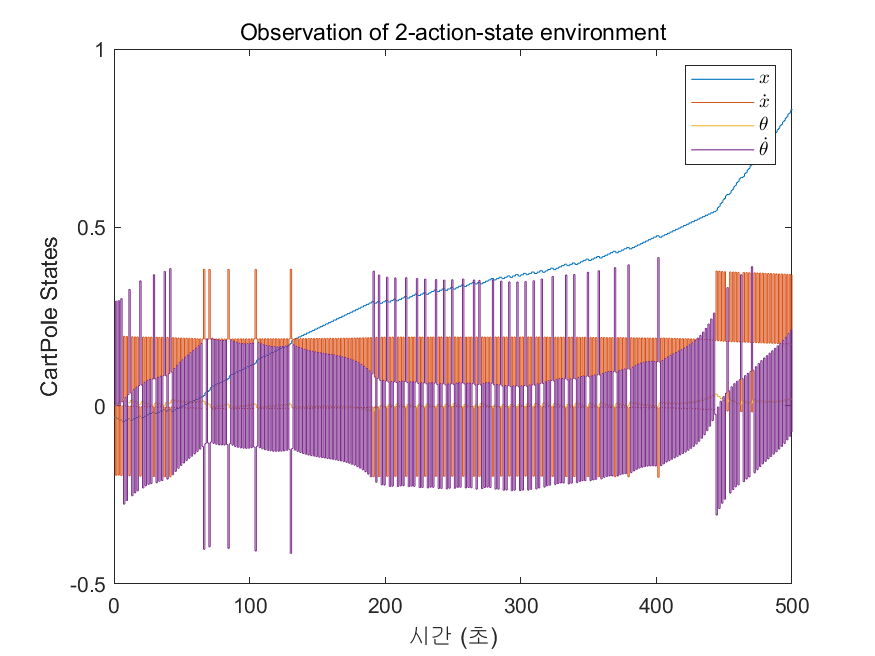
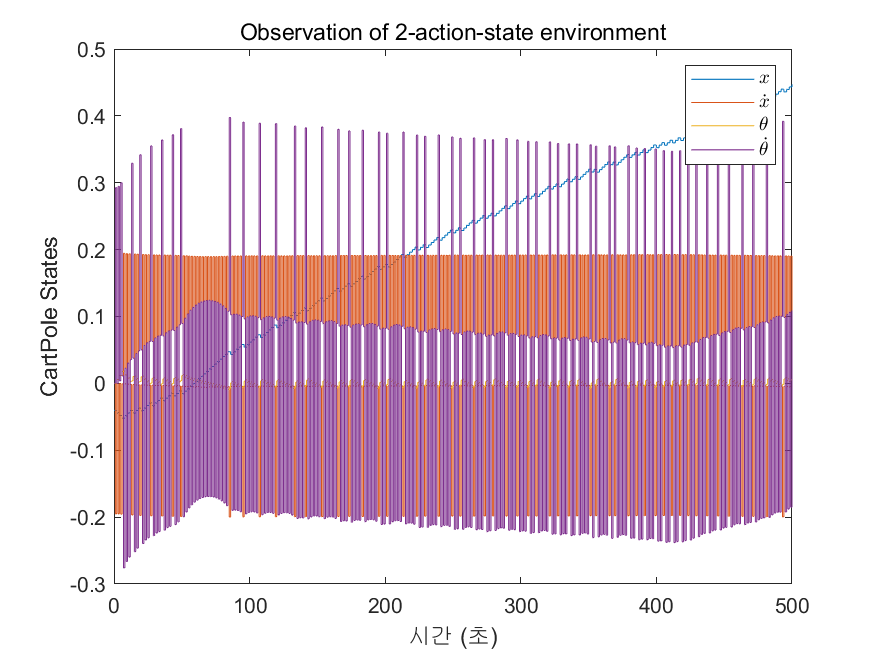
Trial 2

Changed region(s): [[0.0926, 0.1829, 0.9257, 0.8537], [0.0926, 0.1524, 0.1234, 0.1829], [0.0926, 0.061, 0.1234, 0.0915]]

diff --git a/matlab/DQN/agent_Test.m b/matlab/DQN/agent_Test.m
@@ -1,10 +1,16 @@
 clear; clc; close;
 
+trial = "trial2";
+
+if ~isfolder("ExperienceResult\" + trial)
+    mkdir("ExperienceResult\" + trial);
+end
+
 env1 = rlPredefinedEnv("CartPole-Discrete");
 env2 = CartPoleDiscreteAction2;
 
 plot(env1);plot(env2);
-load("agent_saver.mat");
+load("LearningResult\" + trial + "\agent_saver.mat");
 
 simOptions = rlSimulationOptions('MaxSteps', 500);
 
@@ -37,7 +43,7 @@ h2 = legend("$F$");
 h2.Interpreter = 'latex';
 title("Action of 5-action-state environment");
 
-saveas(f1, "ExperienceResult\trial1\2state_obs.png");
-saveas(f2, "ExperienceResult\trial1\2state_act.png");
-saveas(f3, "ExperienceResult\trial1\5state_obs.png");
-saveas(f4, "ExperienceResult\trial1\5state_act.png");
+saveas(f1, "ExperienceResult\" + trial + "\2state_obs.png");
+saveas(f2, "ExperienceResult\" + trial + "\2state_act.png");
+saveas(f3, "ExperienceResult\" + trial + "\5state_obs.png");
+saveas(f4, "ExperienceResult\" + trial + "\5state_act.png");

diff --git a/matlab/DQN/DQNTest.m b/matlab/DQN/DQNTest.m
@@ -1,12 +1,17 @@
 clear; clc; close;
 
+trial = "trial2";
+
+if ~isfolder("LearningResult\" + trial)
+    mkdir("LearningResult\" + trial);
+end
 env1 = rlPredefinedEnv("CartPole-Discrete");
 env2 = CartPoleDiscreteAction2;
 
 obsInfo1 = getObservationInfo(env1);
 actInfo1 = getActionInfo(env1);
 
-rng(0)
+rng(1)
 
 %% Network
 dnn1 = [
@@ -63,5 +68,5 @@ plot(env2);
 trainingStats = train(agent2, env2, trainOpts);
 episode_5state = length(trainingStats.EpisodeIndex);
 
-save("episode_number.mat", "episode_2state", "episode_5state");
-save("agent_saver.mat", "agent1", "agent2");
+save("LearningResult\" + trial + "\episode_number.mat", "episode_2state", "episode_5state");
+save("LearningResult\" + trial + "\agent_saver.mat", "agent1", "agent2");
